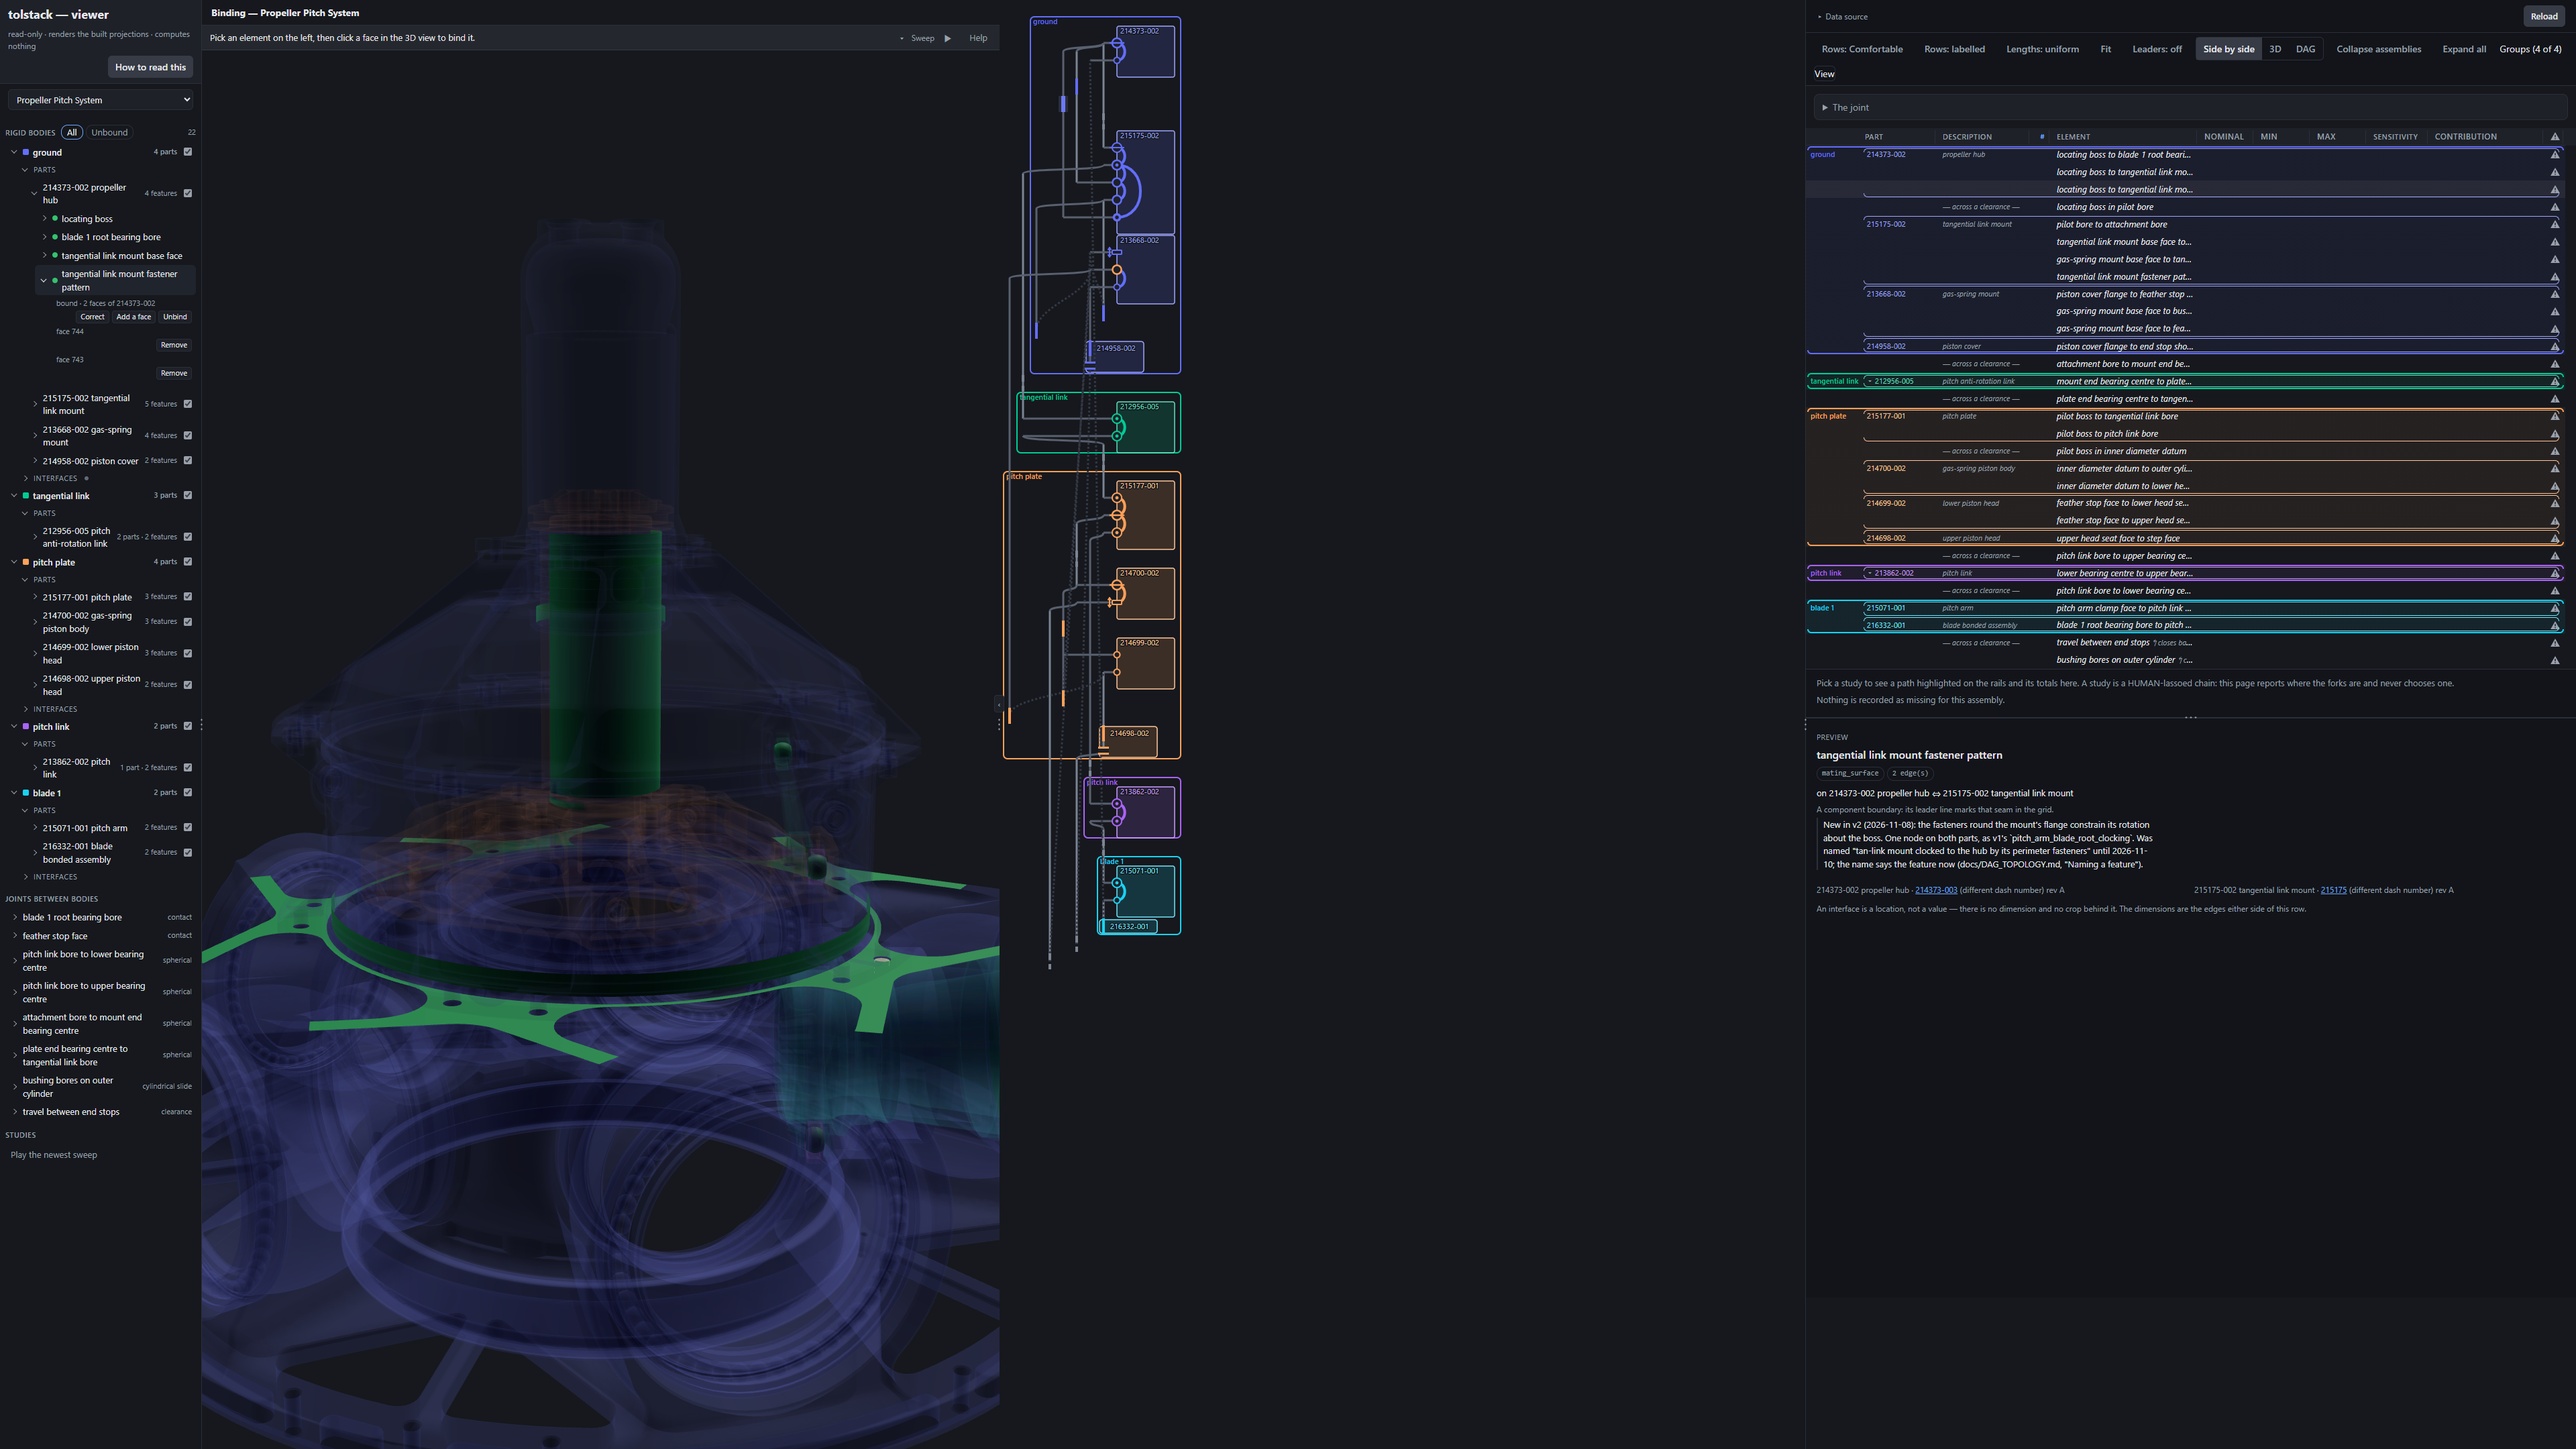
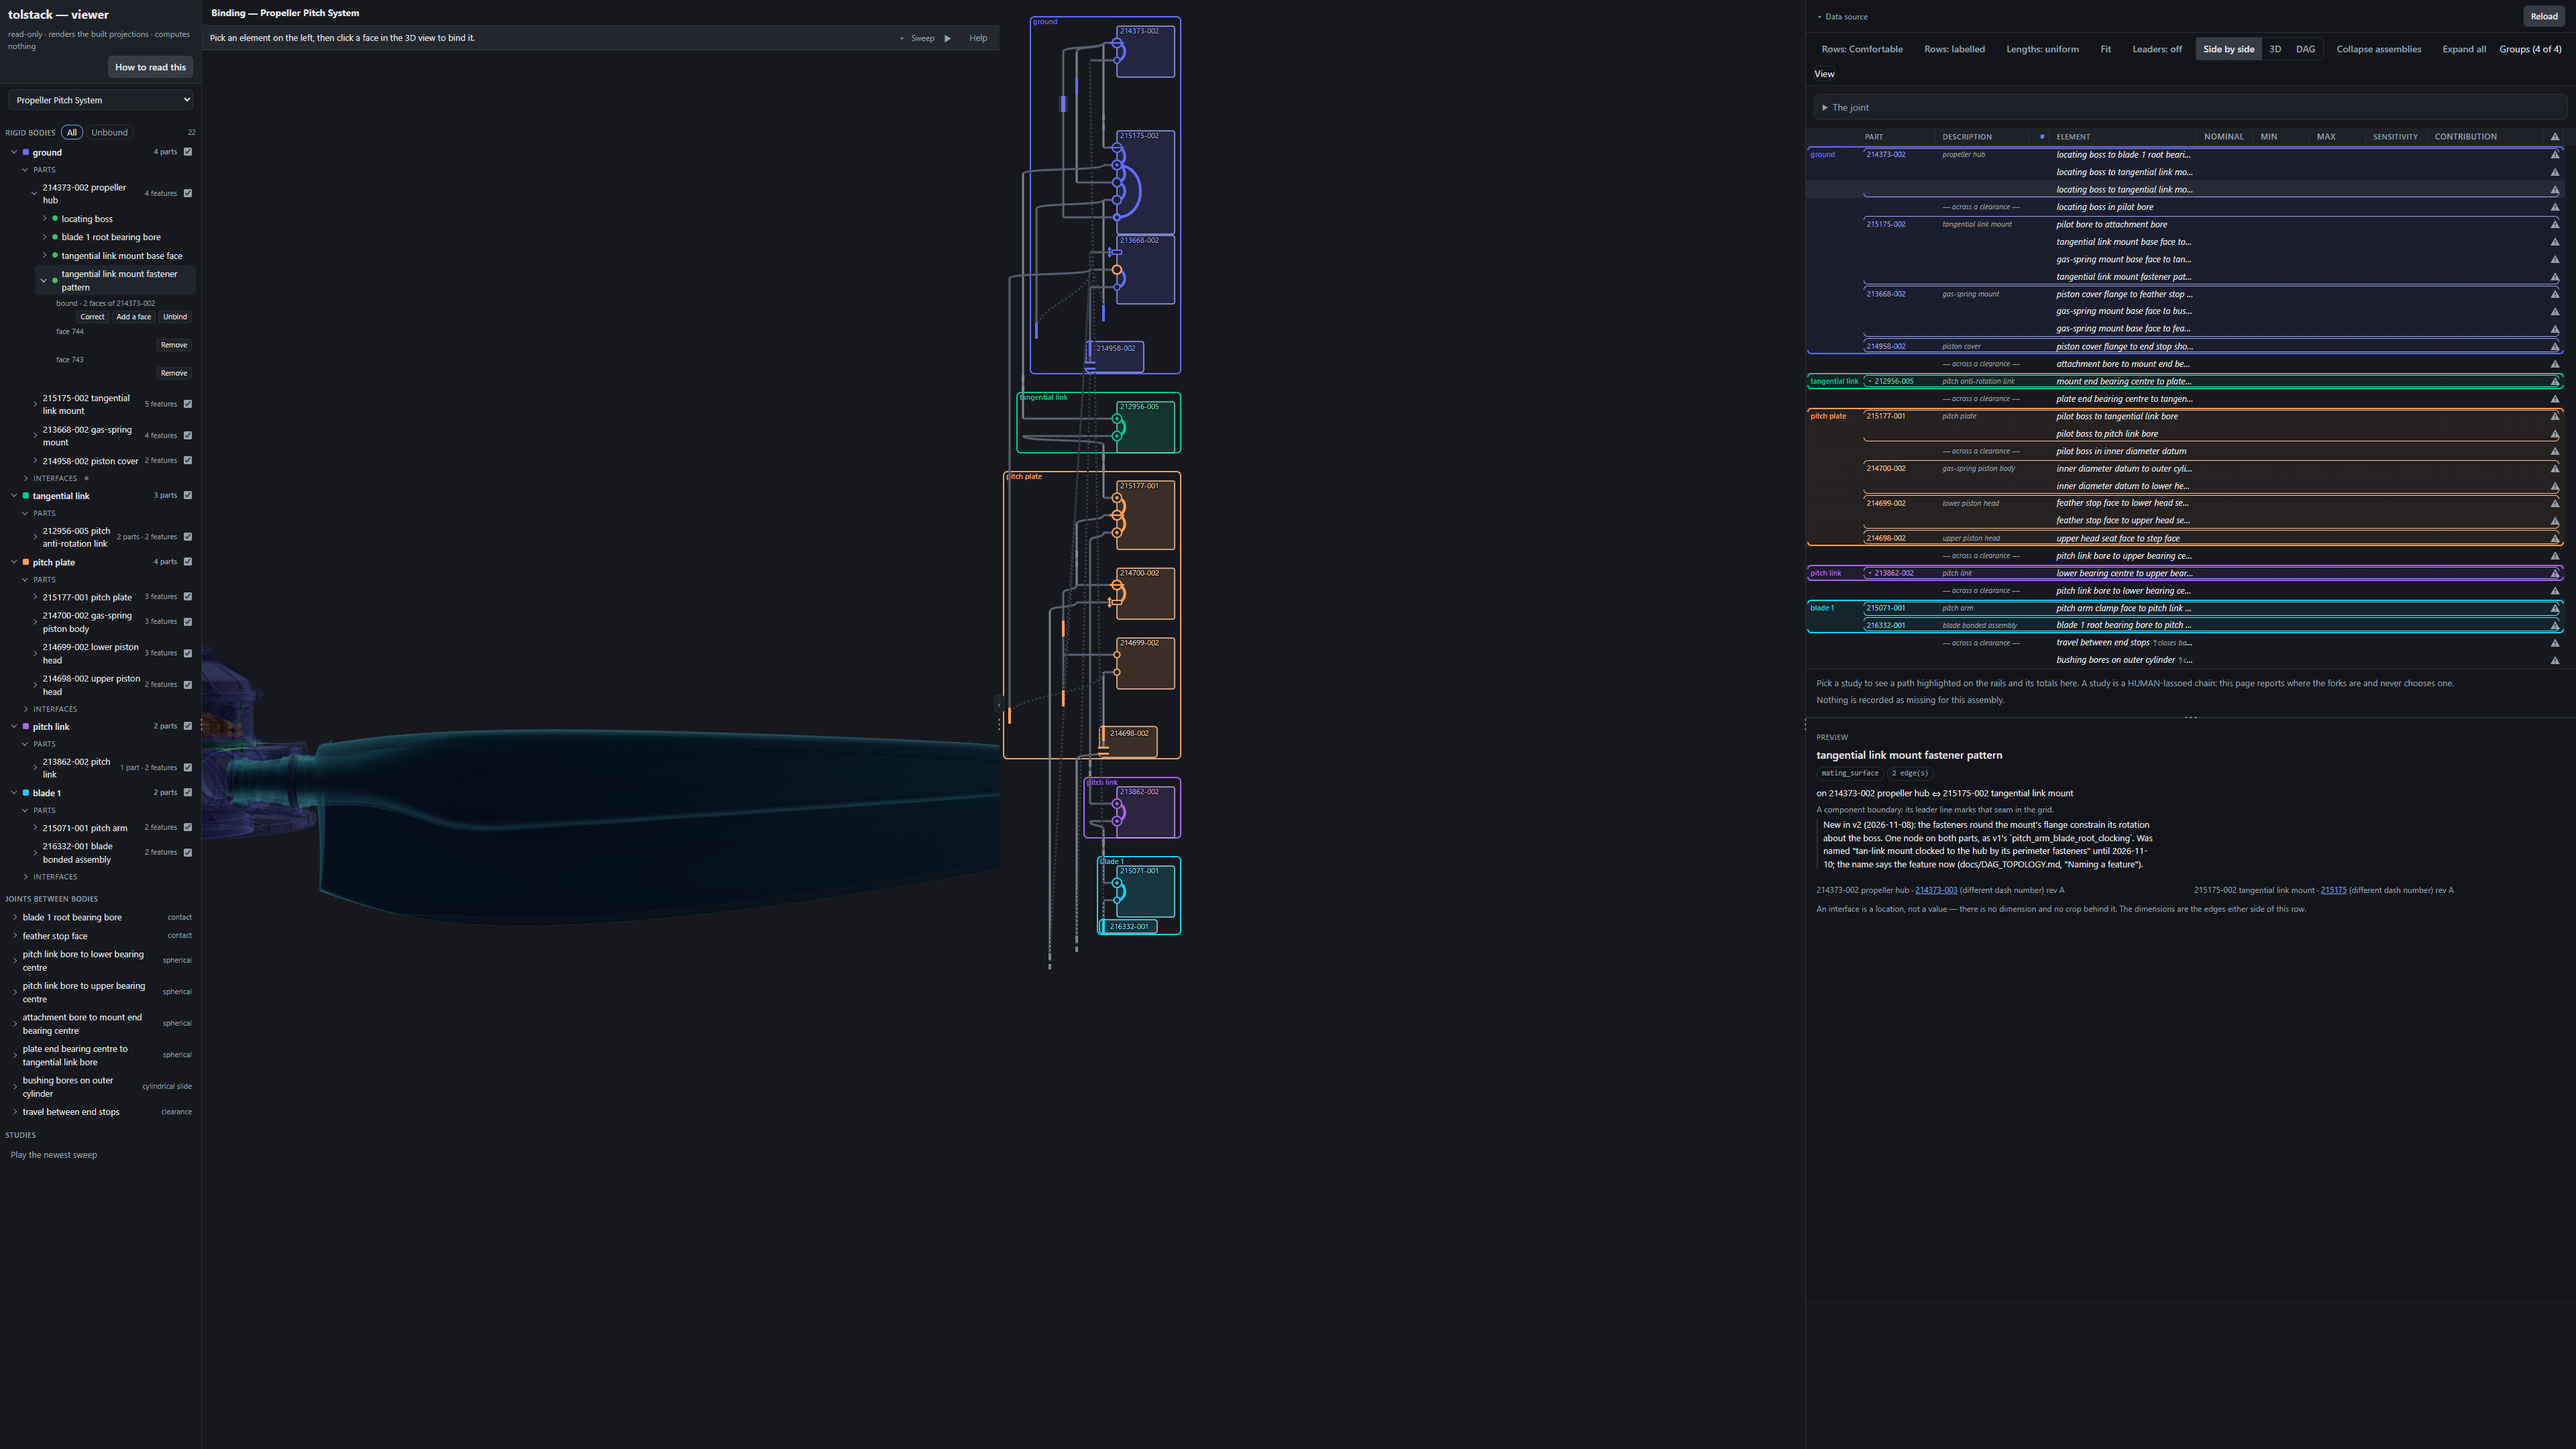
Unbound filters interface ends too; probe and suite name the locating boss for Add a face

Changed region(s): [[0.0625, 0.3722, 0.4062, 1.0]]

diff --git a/apps/viewer/views/nav.js b/apps/viewer/views/nav.js
@@ -442,7 +442,7 @@
     li.appendChild(row);
     if (open) {
       var ends = VA.el("ul", "navtree__children");
-      interfaceRow.ends.forEach(function (fid) {
+      interfaceRow.ends.filter(function (fid) { return featureShown(model, fid, state); }).forEach(function (fid) {
         ends.appendChild(featureItem(model, fid, state, handlers, true));
       });
       li.appendChild(ends);
